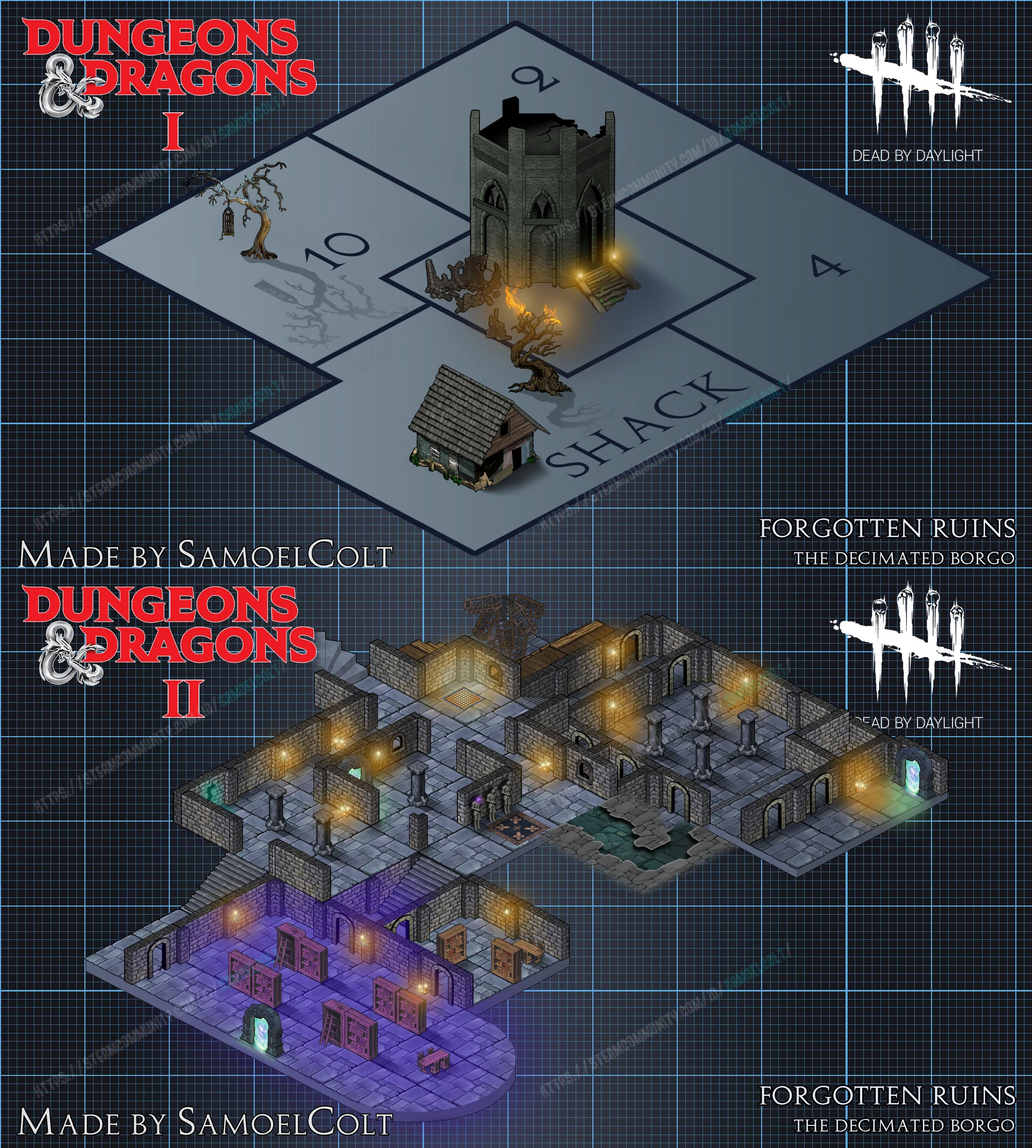
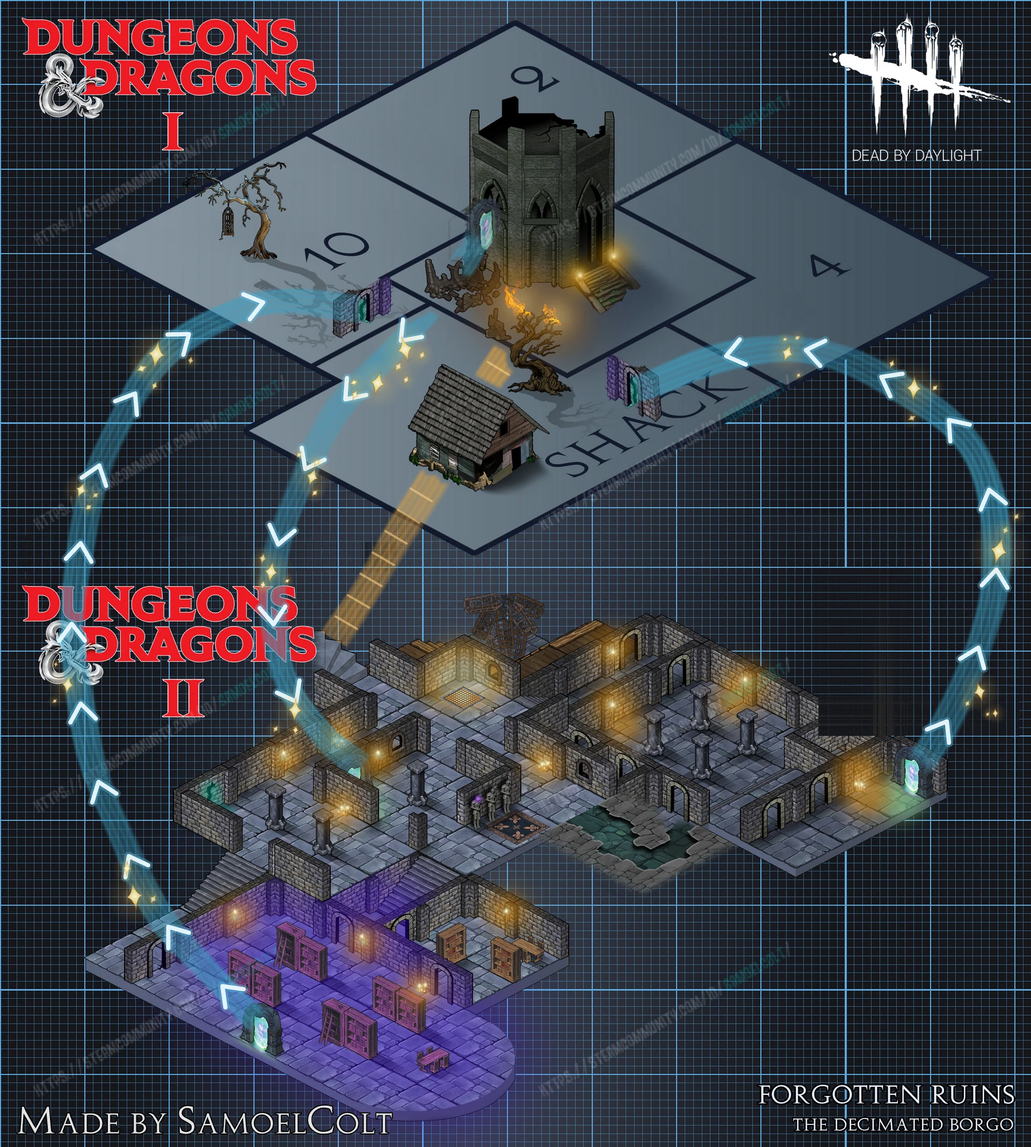
Update Forgotten Ruins combined sheet to connectors v7

diff --git a/public/maps.js b/public/maps.js
@@ -1693,7 +1693,7 @@ window.DBD_MAPS = [
     "name": "Forgotten Ruins (Both Levels)",
     "path": "photo/SamoelColt/The Decimated Borgo/Forgotten Ruins (Both Levels).webp",
     "type": "webp",
-    "bytes": 643798
+    "bytes": 758748
   },
   {
     "artist": "SamoelColt",
